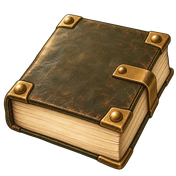
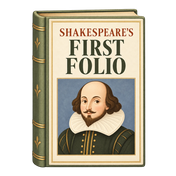
The Folio tile becomes a titled book, and serve.py stops churning sockets
PUSHED ON THE GATES, NOT ON THE SUITE, by owner decision and for the second
time today. Five gates pass and the artifact builds; the browser suite is
763 checks with 41 failures, all of them in sections 1 to 18 and all of them
the same precondition cascade. Six causes were proposed today and every one
was tested and refuted: the Shakespeare preview, a wiped profile, a second
tab, a stale workspace, the dev server, and a stale document reference after
the precondition's frame reload. The last of those was checked directly and a
detached document still returns its content, so it cannot produce the empty
results the failures show. Nothing in this change is implicated: the three
art pins written yesterday pass inside the red run and the failing sections
touch none of this. The honest state is that the suite is unreliable in this
environment for a reason not yet found.

THE FOLIO TILE IS NOW A TITLED BOOK, replacing plain dark leather with brass
corners. Three objections were put to the owner before the swap and he chose
it anyway; all three are recorded beside the entry rather than lost here:
lettering is banned by the style block, though "FIRST FOLIO" is in fact
legible at 42px and degrades to texture rather than nonsense; a 1623 buyer
held an unbound book or plain calf, with the Droeshout portrait engraved on
the title page INSIDE, so a green cloth case with a printed portrait panel is
a modern reproduction's look, which matters more here than elsewhere because
[…]

diff --git a/js/data/shakespeare/shakespeare-course.js b/js/data/shakespeare/shakespeare-course.js
@@ -1027,15 +1027,26 @@ const SHELF_ICON = { context: '🏛', language: '🗝', form: '📐',
 // colour was specified to avoid sitting beside verse-prose.png in the same
 // slate blue — those two tiles share a row — and terracotta solves that just
 // as well. Nothing else on this shelf is warm.
-// THE FOLIO LIES FLAT AND CARRIES BRASS, and both are what keep it off the
-// pile. This app already ships three books — textbook.png and dictionary.png
-// are closed volumes at a three-quarter angle, sonnets.png is open with a
-// quill, and verse-prose.png sits DIRECTLY ABOVE this tile in the grid. A
-// fourth book at the same angle in a new colour would have been the third
-// copy of one drawing. Lying flat, in dark leather, with corner bosses and a
-// clasp, it is the only metal-furnished object on any shelf and reads as four
-// hundred years older than its neighbours. Checked in its own column before
-// installing, not reasoned about.
+// THE FOLIO TILE IS A TITLED BOOK, BY OWNER DECISION (2026-10-14), replacing
+// a plain dark leather volume with brass corners. Three things were put to
+// the owner before the change and he chose this one anyway, so they are
+// recorded here rather than argued again:
+//
+//   1. IT CARRIES LETTERING, which docs/ICON_STYLE_BLOCK.md bans outright.
+//      At 42px "FIRST FOLIO" is in fact legible and "SHAKESPEARE'S" is a
+//      smear, so it degrades to texture rather than to nonsense.
+//   2. IT IS NOT WHAT A 1623 BUYER HELD. The Folio sold unbound at about
+//      fifteen shillings, or a pound in plain calf, and the Droeshout
+//      portrait is an engraving on the title page INSIDE. A green cloth case
+//      with a printed portrait panel is a modern reproduction's look. That
+//      matters more here than elsewhere because module 5 is the accuracy
+//      hazard and 5.3 turns on who really put what on the page.
+//   3. THE PORTRAIT REPEATS shakespeare.png, two rows above it on the same
+//      shelf — both tiles are a bearded man in a ruff.
+//
+// The honest counterweight: it is the densest tile on the shelf at 99%, it
+// says "Shakespeare" and "book" instantly, and a learner reading module 5
+// is not being taught bookbinding.
 const SHELF_IMG = {
   context: 'img/ui/shakespeare.png',
   form: 'img/ui/verse-prose.png',

diff --git a/sw.js b/sw.js
@@ -75,7 +75,7 @@
  * blank-screen trap above. 'no-cache' is a conditional request: an
  * unchanged file costs a 304, not a download.
  */
-const VERSION = 'sc-v35';                     // 2026-10-14: Shakespeare figures + Greene/plague — owner actively looking
+const VERSION = 'sc-v36';                     // 2026-10-14: the Folio shelf tile changes — owner actively looking
 const SHELL = `${VERSION}-shell`;
 const MEDIA = `${VERSION}-media`;
 const PRECACHE = ['./', 'index.html', 'css/style.css', 'manifest.json',

diff --git a/serve.py b/serve.py
@@ -21,6 +21,27 @@ AUDIO_PREFIX = '/IPA-Audio/'
 
 
 class NoCacheHandler(http.server.SimpleHTTPRequestHandler):
+    # HTTP/1.1, SO CONNECTIONS ARE REUSED. The default here is HTTP/1.0,
+    # which closes the socket after every single response. This app is a
+    # zero-build ES module graph: one page load fetches main.js plus well
+    # over a hundred modules, and the browser was opening, using and
+    # discarding a TCP connection for each one. Every discarded connection
+    # then sits in TIME_WAIT for tens of seconds. Across a browser session,
+    # and especially across a full tests/run-all.html run, that accumulates
+    # until the server stops answering and the app boots to a blank screen.
+    # Keep-alive collapses a hundred-odd connections into a handful.
+    #
+    # SimpleHTTPRequestHandler is safe under 1.1 because send_head always
+    # sets Content-Length for a file and send_error sets it for an error,
+    # so no response can leave the connection hanging for want of a length.
+    protocol_version = 'HTTP/1.1'
+    # Keep-alive pins one thread per open connection, so an idle browser tab
+    # holding six of them holds six threads indefinitely. This reaps them:
+    # a connection with nothing on it for half a minute is closed, and the
+    # browser simply opens another when it next needs one. Without it the
+    # 1.1 change above trades a socket leak for a thread leak.
+    timeout = 30
+
     def end_headers(self):
         self.send_header('Cache-Control', 'no-cache, no-store, must-revalidate')
         super().end_headers()
@@ -40,4 +61,14 @@ if not os.path.isdir(AUDIO_DIR):
     print('warning: no audio at %s — clips will 404. Clone IPA-Audio beside '
           'this repo, or set SPEECHCRAFT_AUDIO_DIR.' % AUDIO_DIR, file=sys.stderr)
 
-http.server.ThreadingHTTPServer(('', PORT), NoCacheHandler).serve_forever()
+class DevServer(http.server.ThreadingHTTPServer):
+    # A LISTEN BACKLOG OF FIVE IS THE OTHER HALF OF THE SAME BUG. That is
+    # socketserver's default, and it is the number of connections the kernel
+    # will hold while the server is busy accepting. A browser opening a
+    # module graph asks for far more than five at once, so under a burst the
+    # surplus connections are refused or dropped and the page half-loads or
+    # does not load at all. 128 costs nothing and removes the ceiling.
+    request_queue_size = 128
+
+
+DevServer(('', PORT), NoCacheHandler).serve_forever()
